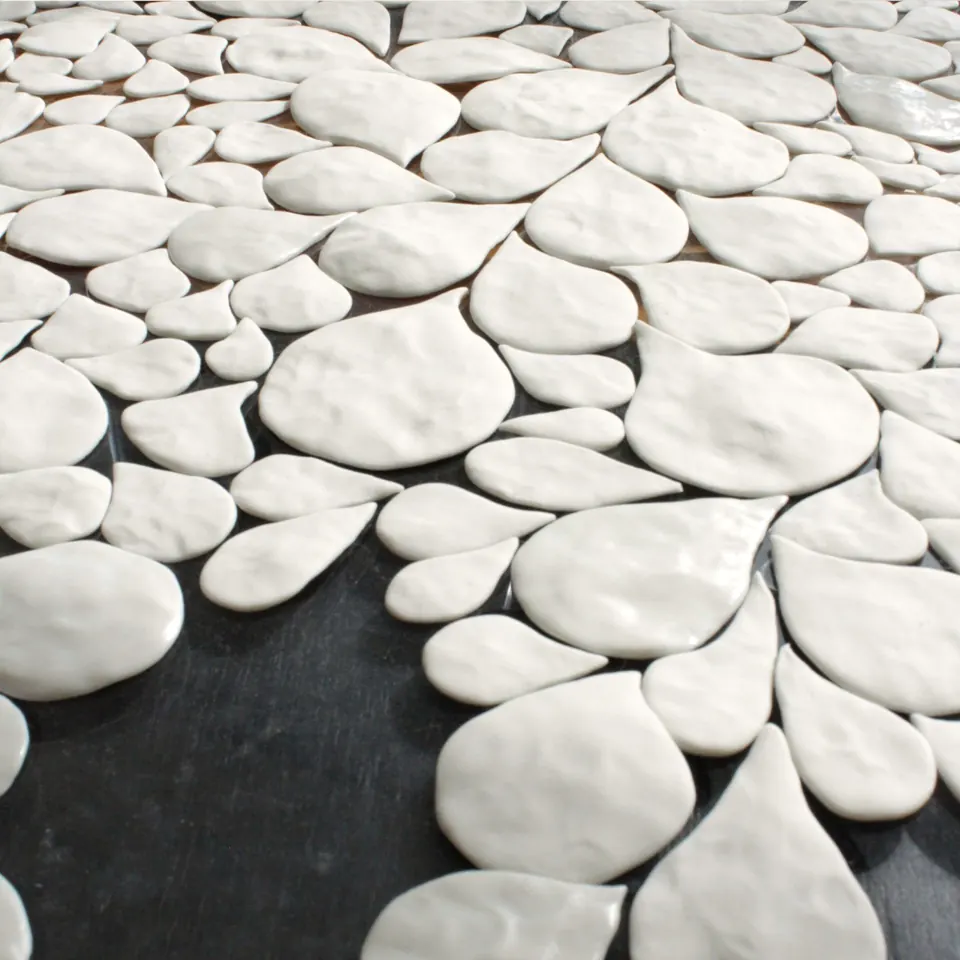
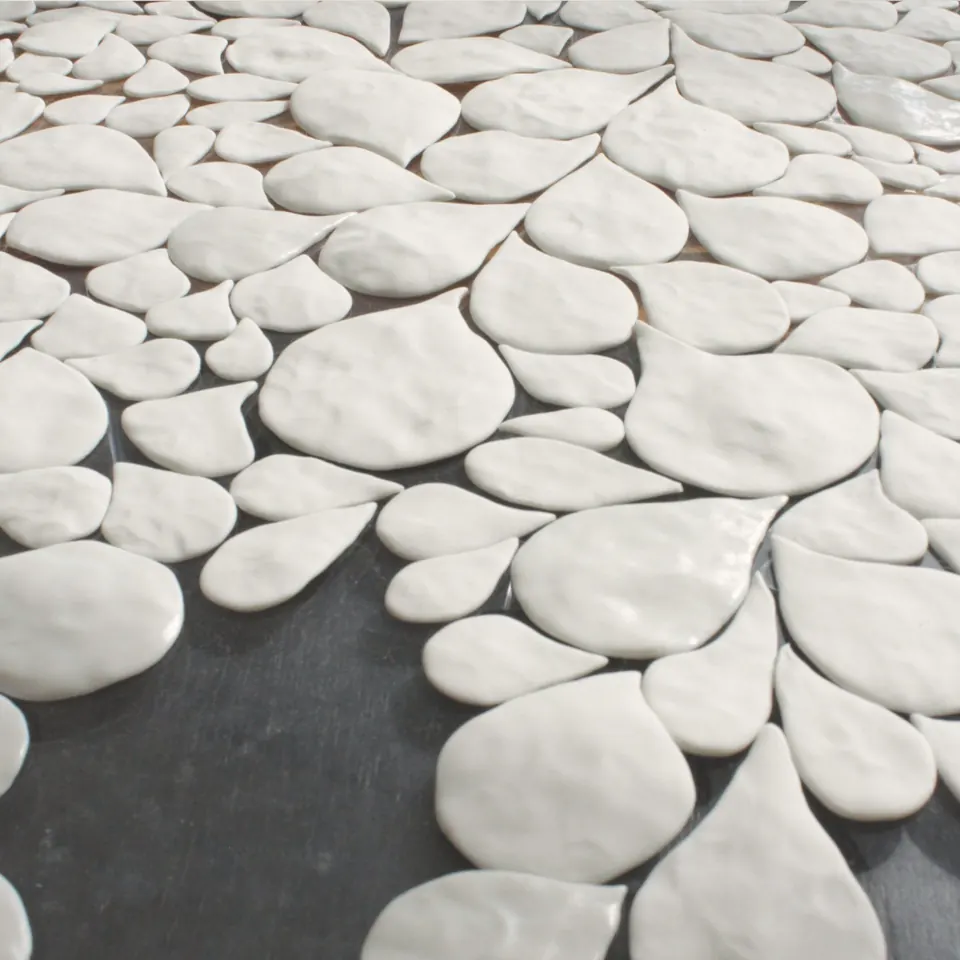
Über mich photo fills the text height; softer Porzellan band

diff --git a/css/style.css b/css/style.css
@@ -297,12 +297,19 @@ html:has(.subnav) { scroll-padding-top: calc(var(--header-h) + var(--bar-h) + 4.
 .split-text > :first-child { margin-top: 0; }
 .split-text p { margin: 0 0 1.1em; max-width: 34em; }
 .split-reverse .split-media { order: 2; }
+/* Über mich: the square photo grows to the height of the text beside it,
+   trimmed at the sides; the face sits in the upper part */
+.split-fill { align-items: stretch; grid-template-columns: minmax(0, 5fr) minmax(0, 6fr); }
+.split-fill .split-media { position: relative; min-height: 100%; }
+.split-fill .split-media img { position: absolute; inset: 0; width: 100%; height: 100%; object-fit: cover; object-position: 50% 20%; }
+.split-fill .split-text { align-self: center; }
 .lead-name { margin-bottom: 1.25rem !important; font-size: clamp(1.15rem, .6vw + 1rem, 1.4rem); font-weight: 400; line-height: 1.3; }
 .contact-lines a { text-decoration: none; }
 .contact-lines a:hover { text-decoration: underline; }
 @media (max-width: 760px) {
   .split { grid-template-columns: 1fr; }
   .split-reverse .split-media { order: 0; }
+  .split-fill .split-media { aspect-ratio: 1; }
 }
 
 .events { list-style: none; margin: 0; padding: 0; text-align: center; }

diff --git a/ueber-mich/index.html b/ueber-mich/index.html
@@ -44,7 +44,7 @@
 
   <main id="main">
     <div class="wrap page-head"><h1 class="page-title">Über Mich</h1></div>
-    <div class="wrap split">
+    <div class="wrap split split-fill">
       <div class="split-media"><img src="../assets/img/ueber-mich.webp" srcset="../assets/img/ueber-mich-600.webp 600w, ../assets/img/ueber-mich.webp 1200w" sizes="(max-width: 760px) 100vw, 50vw" width="1200" height="1200" fetchpriority="high" alt="Martina Stößer im Atelier"></div>
       <div class="split-text">
         <p class="lead-name"><em>Martina Stößer</em></p>
